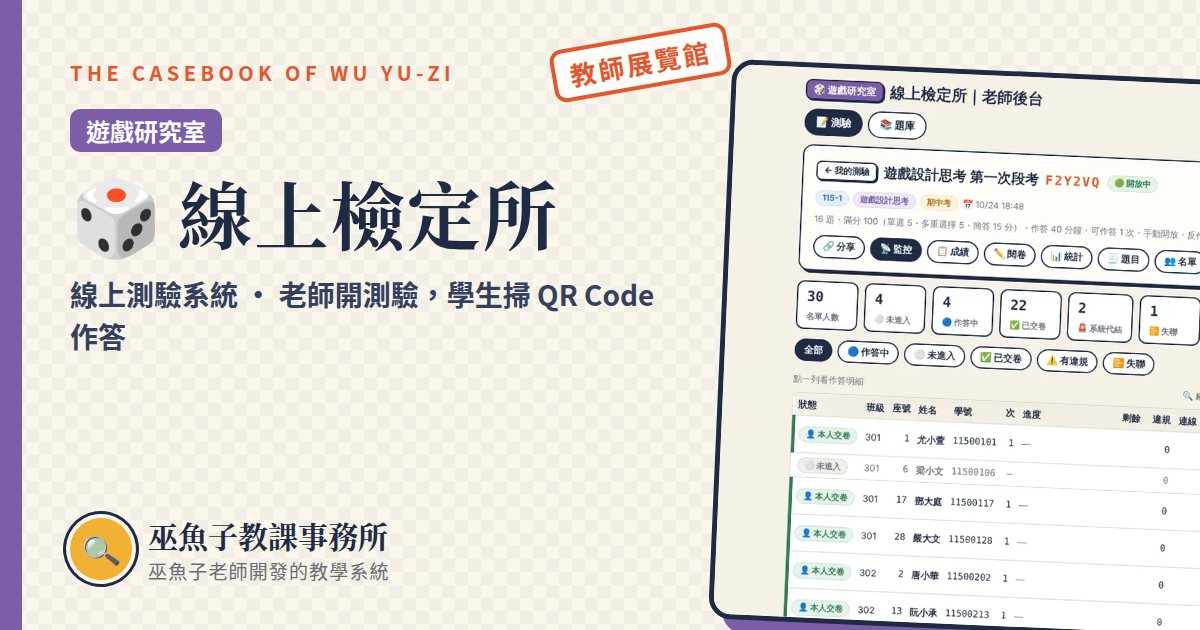
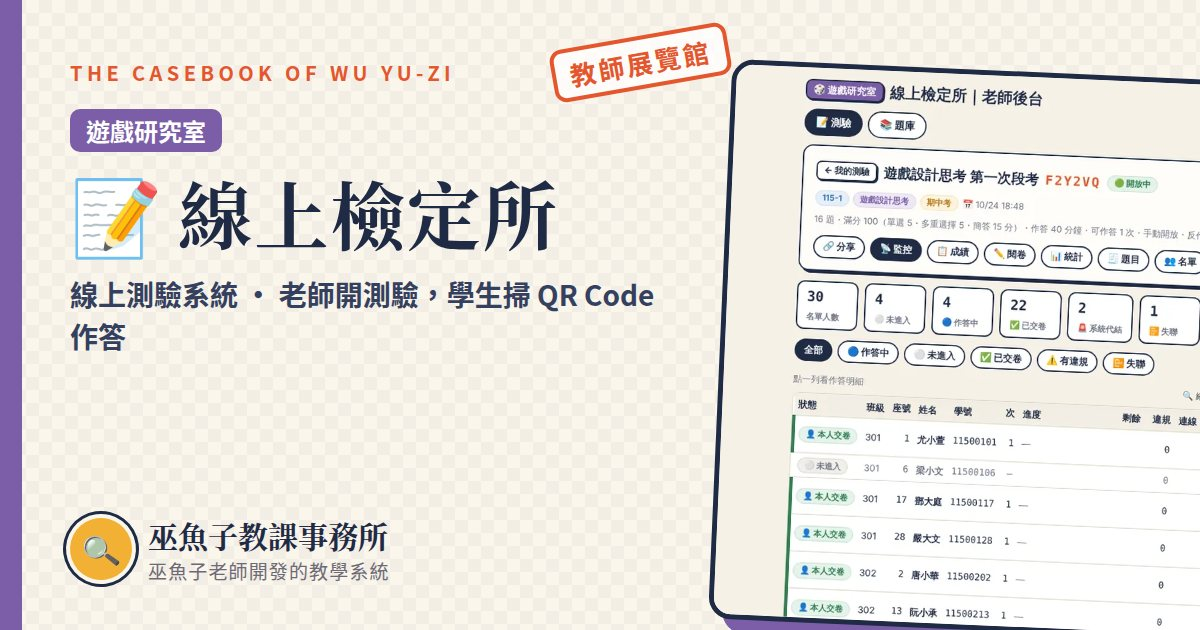
🏛 展覽館分享頁自動更新（rev 1793813108255）

Changed region(s): [[0.0617, 0.2714, 0.1542, 0.4222]]

diff --git a/showcase/share/lab.html b/showcase/share/lab.html
@@ -25,7 +25,7 @@
 <div class="gtop share-top">
   <div class="brand"><small>WU YU-ZI TEACHING STUDIO · TEACHER GALLERY</small><span class="t">⚗ 化學實驗室 No.223・巫魚子教課事務所</span></div>
 </div>
-<div class="gbody"><nav class="toc" aria-label="目錄"><div class="toc-h">Contents</div><a href="#top">📘 簡介</a><a href="#tools">🧪 包含哪些系統</a><a href="#shots">📸 畫面預覽</a><a href="#flow">🗺 上課流程</a><a href="#features">✨ 主要功能</a><a href="#sides">👀 學生端與老師端</a><a href="#prep">🧰 開始前要準備</a><a href="#faq">❓ 常見問題</a><a href="#apply">🙋 想在自己的課堂使用？</a></nav><main><section class="hero" id="top" style="scroll-margin-top:76px"><div class="hero-top"><div class="no">Drawer II · 化學實驗室 No.223 · 化學練習</div><h1><span aria-hidden="true">⚗</span>化學實驗室 No.223</h1><div class="sub">消失的實驗器材 · 消失的指示劑 · 失落的配方</div></div><div class="hero-body"><p class="intro">一個帳號三個化學練習系統。老師開一個「活動」，學生用活動代碼加入、作答；老師按 ▶ 開始才能作答，按 ⏹ 停止就收卷。每位學生的題目都不一樣（依班級座號產生），老師頁即時看到全班進度、能力分析與常見錯誤類型。</p><div class="facts"><div class="fact"><b>適合</b>高中化學（高一為主）、重補修、考前複習</div><div class="fact"><b>學生要準備</b>手機或平板</div><div class="fact"><b>學生登入</b>活動代碼＋班級座號學號姓名</div><div class="fact"><b>一次活動</b>約 10～30 分鐘</div></div></div></section><section class="gcard" id="tools"><h2>🧪 包含哪些系統</h2><div class="sub-tool"><h3>🔍 消失的實驗器材</h3><p>看圖寫出實驗器材名稱（33 種），限時搶分、可設定命數，每個活動有自己的排行榜。</p></div><div class="sub-tool"><h3>🧪 消失的指示劑</h3><p>pH 值計算：濃度 → pH（正向）、pH／pOH → 濃度（反向）或混合，係數由 2、3、5、7、10 組成，四級難度自由分配，每人專屬 5 題。</p></div><div class="sub-tool"><h3>📜 失落的配方</h3><p>單位換算：質量、莫耳數、分子數、原子數、C<sub>M</sub>、重量百分率、ppm；答錯時亮出「單位換算地圖」路線提示（不給答案）。</p></div></section><section class="gcard" id="shots"><h2>📸 畫面預覽</h2><h3 class="shot-h">💻 老師端（電腦）</h3><div class="shot-wide"><figure class="sfig"><button type="button" class="szoom" data-zoom="../img/lab-1.webp" data-cap="能力分析：依難度、題型統計答對率，自動診斷常見錯誤" aria-label="放大：能力分析：依難度、題型統計答對率，自動診斷常見錯誤"><img src="../img/t/lab-1.webp" alt="能力分析：依難度、題型統計答對率，自動診斷常見錯誤" loading="lazy"></button><figcaption>能力分析：依難度、題型統計答對率，自動診斷常見錯誤</figcaption></figure><figure class="sfig"><button type="button" class="szoom" data-zoom="../img/lab-2.webp" data-cap="即時總表：每位學生每一題的作答與嘗試次數" aria-label="放大：即時總表：每位學生每一題的作答與嘗試次數"><img src="../img/t/lab-2.webp" alt="即時總表：每位學生每一題的作答與嘗試次數" loading="lazy"></button><figcaption>即時總表：每位學生每一題的作答與嘗試次數</figcaption></figure><figure class="sfig"><button type="button" class="szoom" data-zoom="../img/lab-3.webp" data-cap="實驗器材辨識：每個活動自己的排行榜" aria-label="放大：實驗器材辨識：每個活動自己的排行榜"><img src="../img/t/lab-3.webp" alt="實驗器材辨識：每個活動自己的排行榜" loading="lazy"></button><figcaption>實驗器材辨識：每個活動自己的排行榜</figcaption></figure></div><h3 class="shot-h">📱 學生端（手機）</h3><div class="shot-phone"><figure class="sfig"><button type="button" class="szoom" data-zoom="../img/lab-4.webp" data-cap="學生手機：pH 計算即時對錯" aria-label="放大：學生手機：pH 計算即時對錯"><img src="../img/t/lab-4.webp" alt="學生手機：pH 計算即時對錯" loading="lazy"></button><figcaption>學生手機：pH 計算即時對錯</figcaption></figure><figure class="sfig"><button type="button" class="szoom" data-zoom="../img/lab-5.webp" data-cap="學生手機：單位換算答錯時亮出路線提示" aria-label="放大：學生手機：單位換算答錯時亮出路線提示"><img src="../img/t/lab-5.webp" alt="學生手機：單位換算答錯時亮出路線提示" loading="lazy"></button><figcaption>學生手機：單位換算答錯時亮出路線提示</figcaption></figure><figure class="sfig"><button type="button" class="szoom" data-zoom="../img/lab-6.webp" data-cap="學生手機：看圖寫器材名稱，越快分數越高" aria-label="放大：學生手機：看圖寫器材名稱，越快分數越高"><img src="../img/t/lab-6.webp" alt="學生手機：看圖寫器材名稱，越快分數越高" loading="lazy"></button><figcaption>學生手機：看圖寫器材名稱，越快分數越高</figcaption></figure></div><p class="act-note">畫面中的學生姓名、成績都是測試用的假資料。點圖片可以放大。</p></section><section class="gcard" id="flow"><h2>🗺 上課流程</h2><div class="flow"><div class="node"><span class="ic" aria-hidden="true">➕</span><b>開新活動</b><span>學期、項次、題目設定</span><span class="who t">老師</span></div><span class="arr" aria-hidden="true">→</span><div class="node"><span class="ic" aria-hidden="true">🔗</span><b>分享連結／QR</b><span>或全螢幕投影代碼</span><span class="who t">老師</span></div><span class="arr" aria-hidden="true">→</span><div class="node"><span class="ic" aria-hidden="true">📱</span><b>學生加入</b><span>選用途、填班級座號學號姓名</span><span class="who s">學生</span></div><span class="arr" aria-hidden="true">→</span><div class="node"><span class="ic" aria-hidden="true">▶</span><b>老師按開始</b><span>學生自動進入作答</span><span class="who t">老師</span></div><span class="arr" aria-hidden="true">→</span><div class="node"><span class="ic" aria-hidden="true">✍</span><b>作答</b><span>每人題目不同</span><span class="who s">學生</span></div><span class="arr" aria-hidden="true">→</span><div class="node"><span class="ic" aria-hidden="true">⏹</span><b>老師按停止</b><span>之後不能再作答</span><span class="who t">老師</span></div><span class="arr" aria-hidden="true">→</span><div class="node"><span class="ic" aria-hidden="true">📊</span><b>看分析、匯出</b><span>能力分析＋Excel</span><span class="who t">老師</span></div></div><p class="act-note">深藍標籤＝老師做的事，黃色標籤＝學生做的事。</p></section><section class="gcard" id="features"><h2>✨ 主要功能</h2><div class="feats"><div class="feat"><span class="ic" aria-hidden="true">🎲</span><div><b>每人題目不同</b><span>依「活動＋班級＋座號」產生，旁邊同學抄不到；老師頁可重算任何人的題目與答案。</span></div></div><div class="feat"><span class="ic" aria-hidden="true">▶</span><div><b>開始／停止</b><span>結算後學生就不能偷偷再作答；投影畫面上也能直接按開始、停止。</span></div></div><div class="feat"><span class="ic" aria-hidden="true">📡</span><div><b>即時總表</b><span>誰在作答、第幾題、答對幾題，依班級、用途篩選。</span></div></div><div class="feat"><span class="ic" aria-hidden="true">🩺</span><div><b>常見錯誤診斷</b><span>從答案「差幾倍」判斷是哪一種錯：單位沒換、亞佛加厥數乘除反了、pH 和 pOH 搞混……</span></div></div><div class="feat"><span class="ic" aria-hidden="true">📊</span><div><b>能力分析</b><span>依難度、題型統計答對率，每位學生的主要錯誤一目了然。</span></div></div><div class="feat"><span class="ic" aria-hidden="true">🖥</span><div><b>投影講解＋列印</b><span>pH 與單位換算可投影共同題目講解，也能印學習單。</span></div></div><div class="feat"><span class="ic" aria-hidden="true">🏆</span><div><b>排行榜</b><span>器材辨識每個活動有排行榜，可全螢幕投影。</span></div></div><div class="feat"><span class="ic" aria-hidden="true">📥</span><div><b>匯出 Excel</b><span>全班總表、能力分析、錯誤紀錄、題目與解法。</span></div></div></div></section><section class="gcard" id="sides"><h2>👀 學生端與老師端</h2><div class="two"><div class="side"><h3>👩🎓 學生</h3><ul class="clues"><li>輸入活動代碼（或掃 QR Code），選用途：正式進度／考試複習／重補修</li><li>老師還沒按開始時會在等待畫面，開始後自動進入</li><li>重新整理不會不見，會從雲端接回進度</li></ul></div><div class="side"><h3>👨🏫 老師</h3><ul class="clues"><li>三個系統共用「我的活動」：學期、項次、名稱、題目設定</li><li>一個活動一個 6 碼代碼，舊活動資料都留著可以回看</li><li>可刪除測試資料，避免影響統計</li></ul></div></div></section><section class="gcard" id="prep"><h2>🧰 開始前要準備</h2><ul class="clues"><li>學生的手機或平板（全班都要能上網）</li><li>投影設備（投影代碼或 QR Code 最方便）</li><li>想用「用途」分開統計：開活動前想好是正式進度、複習還是重補修</li></ul></section><section class="gcard" id="faq"><h2>❓ 常見問題</h2><dl class="faq"><dt>可以拿來當正式考試嗎？</dt><dd>比較適合當練習。答案是在學生裝置上判斷的，懂程式的學生理論上看得到；正式考試建議用「📝 線上檢定所」。</dd><dt>可以只開其中一個系統嗎？</dt><dd>可以，三個系統是分開開活動的，申請一次就三個都能用。</dd><dt>名稱裡的 No.223 是什麼？</dt><dd>巫魚子老師的化學實驗室教室號碼，是系列故事的背景，不影響使用。</dd><dt>可以調整題數、難度嗎？</dt><dd>可以。器材辨識可設題數、命數、類別；pH 與單位換算可設四級難度各幾題、題目方向、作答方式。</dd></dl></section><section class="gcard" id="apply"><h2>🙋 想在自己的課堂使用？</h2><p>這是巫魚子老師開發的教學系統。目前開放給其他老師申請使用（需要巫魚子老師核准）。</p><p>有興趣的話，歡迎直接私訊巫魚子老師 😊</p></section><div class="foot-nav"><a class="btn ghost small" href="#top">↑ 回到最上面</a></div><p class="share-foot">巫魚子教課事務所｜教師展覽館　© 巫魚子老師</p></main></div>
+<div class="gbody"><nav class="toc" aria-label="目錄"><div class="toc-h">Contents</div><a href="#top">📘 簡介</a><a href="#tools">🧪 包含哪些系統</a><a href="#shots">📸 畫面預覽</a><a href="#flow">🗺 上課流程</a><a href="#features">✨ 主要功能</a><a href="#sides">👀 學生端與老師端</a><a href="#prep">🧰 開始前要準備</a><a href="#faq">❓ 常見問題</a><a href="#apply">🙋 想在自己的課堂使用？</a></nav><main><section class="hero" id="top" style="scroll-margin-top:76px"><div class="hero-top"><div class="no">Drawer II · 化學實驗室 No.223 · 化學練習</div><h1><span aria-hidden="true">⚗</span>化學實驗室 No.223</h1><div class="sub">消失的實驗器材 · 消失的指示劑 · 失落的配方</div></div><div class="hero-body"><p class="intro">一個帳號三個化學練習系統。老師開一個「活動」，學生用活動代碼加入、作答；老師按 ▶ 開始才能作答，按 ⏹ 停止就收卷。每位學生的題目都不一樣（依班級座號產生），老師頁即時看到全班進度、能力分析與常見錯誤類型。</p><div class="facts"><div class="fact"><b>適合</b>高中化學（高一為主）、重補修、考前複習</div><div class="fact"><b>學生要準備</b>手機或平板</div><div class="fact"><b>學生登入</b>活動代碼＋班級座號學號姓名</div><div class="fact"><b>一次活動</b>約 10～30 分鐘</div></div></div></section><section class="gcard" id="tools"><h2>🧪 包含哪些系統</h2><div class="sub-tool"><h3>🔍 消失的實驗器材</h3><p>看圖寫出實驗器材名稱（33 種），限時搶分、可設定命數，每個活動有自己的排行榜。</p></div><div class="sub-tool"><h3>🧪 消失的指示劑</h3><p>pH 值計算：濃度 → pH（正向）、pH／pOH → 濃度（反向）或混合，係數由 2、3、5、7、10 組成，四級難度自由分配，每人專屬 5 題。</p></div><div class="sub-tool"><h3>📜 失落的配方</h3><p>單位換算：質量、莫耳數、分子數、原子數、C<sub>M</sub>、重量百分率、ppm；答錯時亮出「單位換算地圖」路線提示（不給答案）。</p></div></section><section class="gcard" id="shots"><h2>📸 畫面預覽</h2><h3 class="shot-h">💻 老師端（電腦）</h3><div class="shot-wide"><figure class="sfig"><button type="button" class="szoom" data-zoom="../img/lab-1.webp" data-cap="能力分析：依難度、題型統計答對率，自動診斷常見錯誤" aria-label="放大：能力分析：依難度、題型統計答對率，自動診斷常見錯誤"><img src="../img/t/lab-1.webp" alt="能力分析：依難度、題型統計答對率，自動診斷常見錯誤" loading="lazy"></button><figcaption>能力分析：依難度、題型統計答對率，自動診斷常見錯誤</figcaption></figure><figure class="sfig"><button type="button" class="szoom" data-zoom="../img/lab-2.webp" data-cap="即時總表：每位學生每一題的作答與嘗試次數" aria-label="放大：即時總表：每位學生每一題的作答與嘗試次數"><img src="../img/t/lab-2.webp" alt="即時總表：每位學生每一題的作答與嘗試次數" loading="lazy"></button><figcaption>即時總表：每位學生每一題的作答與嘗試次數</figcaption></figure><figure class="sfig"><button type="button" class="szoom" data-zoom="../img/lab-3.webp" data-cap="實驗器材辨識：每個活動自己的排行榜" aria-label="放大：實驗器材辨識：每個活動自己的排行榜"><img src="../img/t/lab-3.webp" alt="實驗器材辨識：每個活動自己的排行榜" loading="lazy"></button><figcaption>實驗器材辨識：每個活動自己的排行榜</figcaption></figure></div><h3 class="shot-h">📱 學生端（手機）</h3><div class="shot-phone"><figure class="sfig"><button type="button" class="szoom" data-zoom="../img/lab-4.webp" data-cap="學生手機：pH 計算即時對錯" aria-label="放大：學生手機：pH 計算即時對錯"><img src="../img/t/lab-4.webp" alt="學生手機：pH 計算即時對錯" loading="lazy"></button><figcaption>學生手機：pH 計算即時對錯</figcaption></figure><figure class="sfig"><button type="button" class="szoom" data-zoom="../img/lab-5.webp" data-cap="學生手機：單位換算答錯時亮出路線提示" aria-label="放大：學生手機：單位換算答錯時亮出路線提示"><img src="../img/t/lab-5.webp" alt="學生手機：單位換算答錯時亮出路線提示" loading="lazy"></button><figcaption>學生手機：單位換算答錯時亮出路線提示</figcaption></figure><figure class="sfig"><button type="button" class="szoom" data-zoom="../img/lab-6.webp" data-cap="學生手機：看圖寫器材名稱，越快分數越高" aria-label="放大：學生手機：看圖寫器材名稱，越快分數越高"><img src="../img/t/lab-6.webp" alt="學生手機：看圖寫器材名稱，越快分數越高" loading="lazy"></button><figcaption>學生手機：看圖寫器材名稱，越快分數越高</figcaption></figure></div><p class="act-note">畫面中的學生姓名、成績都是測試用的假資料。點圖片可以放大。</p></section><section class="gcard" id="flow"><h2>🗺 上課流程</h2><div class="flow"><div class="node"><span class="ic" aria-hidden="true">➕</span><b>開新活動</b><span>學期、項次、題目設定</span><span class="who t">老師</span></div><span class="arr" aria-hidden="true">→</span><div class="node"><span class="ic" aria-hidden="true">🔗</span><b>分享連結／QR</b><span>或全螢幕投影代碼</span><span class="who t">老師</span></div><span class="arr" aria-hidden="true">→</span><div class="node"><span class="ic" aria-hidden="true">📱</span><b>學生加入</b><span>選用途、填班級座號學號姓名</span><span class="who s">學生</span></div><span class="arr" aria-hidden="true">→</span><div class="node"><span class="ic" aria-hidden="true">▶</span><b>老師按開始</b><span>學生自動進入作答</span><span class="who t">老師</span></div><span class="arr" aria-hidden="true">→</span><div class="node"><span class="ic" aria-hidden="true">✍</span><b>作答</b><span>每人題目不同</span><span class="who s">學生</span></div><span class="arr" aria-hidden="true">→</span><div class="node"><span class="ic" aria-hidden="true">⏹</span><b>老師按停止</b><span>之後不能再作答</span><span class="who t">老師</span></div><span class="arr" aria-hidden="true">→</span><div class="node"><span class="ic" aria-hidden="true">📊</span><b>看分析、匯出</b><span>能力分析＋Excel</span><span class="who t">老師</span></div></div><p class="act-note">深藍標籤＝老師做的事，黃色標籤＝學生做的事。</p></section><section class="gcard" id="features"><h2>✨ 主要功能</h2><div class="feats"><div class="feat"><span class="ic" aria-hidden="true">🎲</span><div><b>每人題目不同</b><span>依「活動＋班級＋座號」產生，旁邊同學抄不到；老師頁可重算任何人的題目與答案。</span></div></div><div class="feat"><span class="ic" aria-hidden="true">▶</span><div><b>開始／停止</b><span>結算後學生就不能偷偷再作答；投影畫面上也能直接按開始、停止。</span></div></div><div class="feat"><span class="ic" aria-hidden="true">📡</span><div><b>即時總表</b><span>誰在作答、第幾題、答對幾題，依班級、用途篩選。</span></div></div><div class="feat"><span class="ic" aria-hidden="true">🩺</span><div><b>常見錯誤診斷</b><span>從答案「差幾倍」判斷是哪一種錯：單位沒換、亞佛加厥數乘除反了、pH 和 pOH 搞混……</span></div></div><div class="feat"><span class="ic" aria-hidden="true">📊</span><div><b>能力分析</b><span>依難度、題型統計答對率，每位學生的主要錯誤一目了然。</span></div></div><div class="feat"><span class="ic" aria-hidden="true">🖥</span><div><b>投影講解＋列印</b><span>pH 與單位換算可投影共同題目講解，也能印學習單。</span></div></div><div class="feat"><span class="ic" aria-hidden="true">🏆</span><div><b>排行榜</b><span>器材辨識每個活動有排行榜，可全螢幕投影。</span></div></div><div class="feat"><span class="ic" aria-hidden="true">📥</span><div><b>匯出 Excel</b><span>全班總表、能力分析、錯誤紀錄、題目與解法。</span></div></div></div></section><section class="gcard" id="sides"><h2>👀 學生端與老師端</h2><div class="two"><div class="side"><h3>👩🎓 學生</h3><ul class="clues"><li>輸入活動代碼（或掃 QR Code），選用途：正式進度／考試複習／重補修</li><li>老師還沒按開始時會在等待畫面，開始後自動進入</li><li>重新整理不會不見，會從雲端接回進度</li></ul></div><div class="side"><h3>👨🏫 老師</h3><ul class="clues"><li>三個系統共用「我的活動」：學期、項次、名稱、題目設定</li><li>一個活動一個 6 碼代碼，舊活動資料都留著可以回看</li><li>可刪除測試資料，避免影響統計</li></ul></div></div></section><section class="gcard" id="prep"><h2>🧰 開始前要準備</h2><ul class="clues"><li>學生的手機或平板（全班都要能上網）</li><li>投影設備（投影代碼或 QR Code 最方便）</li><li>想用「用途」分開統計：開活動前想好是正式進度、複習還是重補修</li></ul></section><section class="gcard" id="faq"><h2>❓ 常見問題</h2><dl class="faq"><dt>可以拿來當正式考試嗎？</dt><dd>比較適合當練習。答案是在學生裝置上判斷的，懂程式的學生理論上看得到；正式考試建議用「🎲 線上檢定所」。</dd><dt>可以只開其中一個系統嗎？</dt><dd>可以，三個系統是分開開活動的，申請一次就三個都能用。</dd><dt>名稱裡的 No.223 是什麼？</dt><dd>巫魚子老師的化學實驗室教室號碼，是系列故事的背景，不影響使用。</dd><dt>可以調整題數、難度嗎？</dt><dd>可以。器材辨識可設題數、命數、類別；pH 與單位換算可設四級難度各幾題、題目方向、作答方式。</dd></dl></section><section class="gcard" id="apply"><h2>🙋 想在自己的課堂使用？</h2><p>這是巫魚子老師開發的教學系統。目前開放給其他老師申請使用（需要巫魚子老師核准）。</p><p>有興趣的話，歡迎直接私訊巫魚子老師 😊</p></section><div class="foot-nav"><a class="btn ghost small" href="#top">↑ 回到最上面</a></div><p class="share-foot">巫魚子教課事務所｜教師展覽館　© 巫魚子老師</p></main></div>
 <script src="../showcase.js?v=20261028c"></script>
 <script>SHOWCASE.enhance();</script>
 </body>
